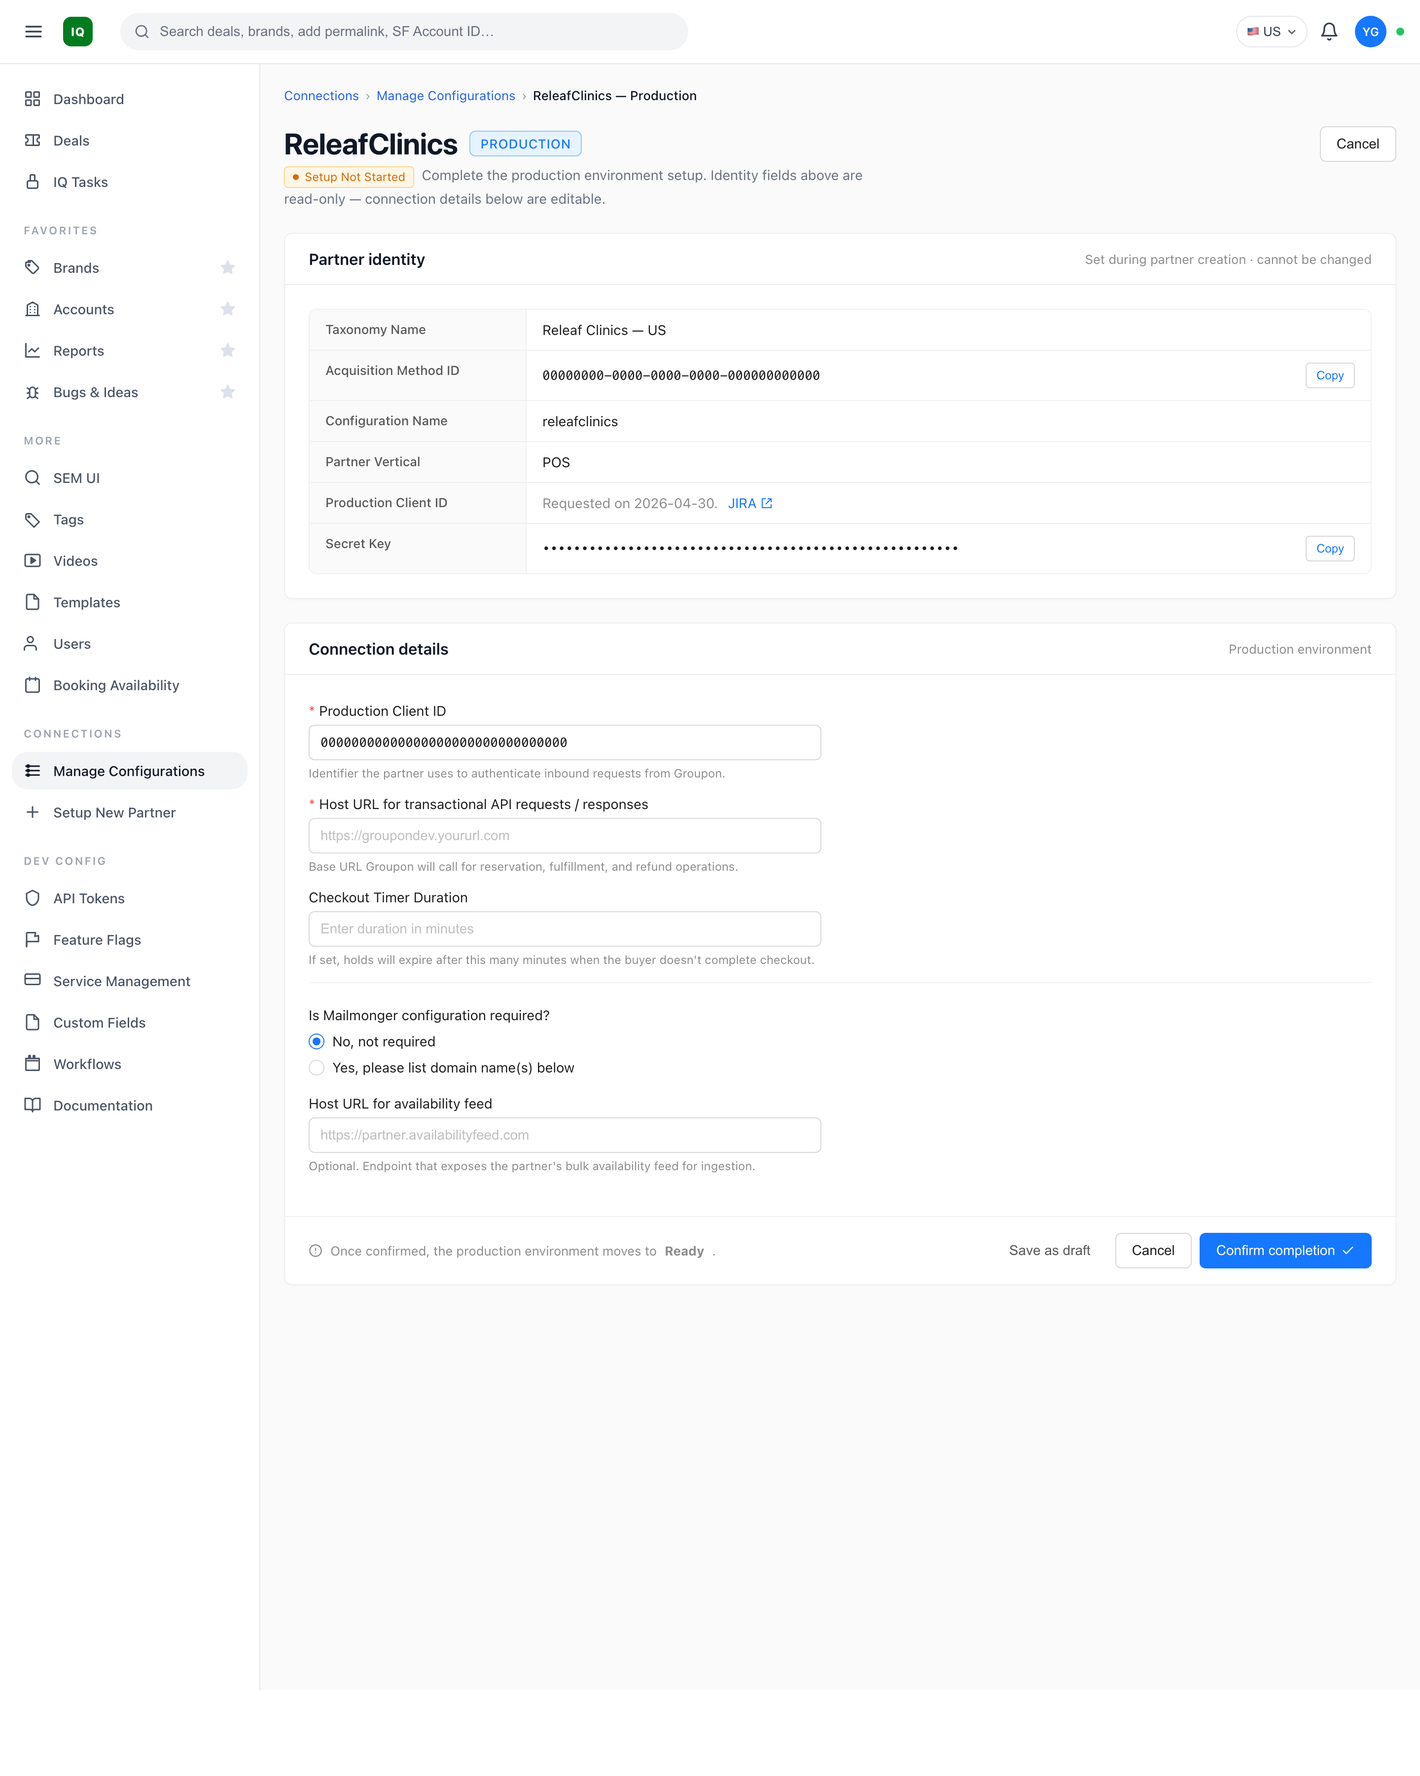
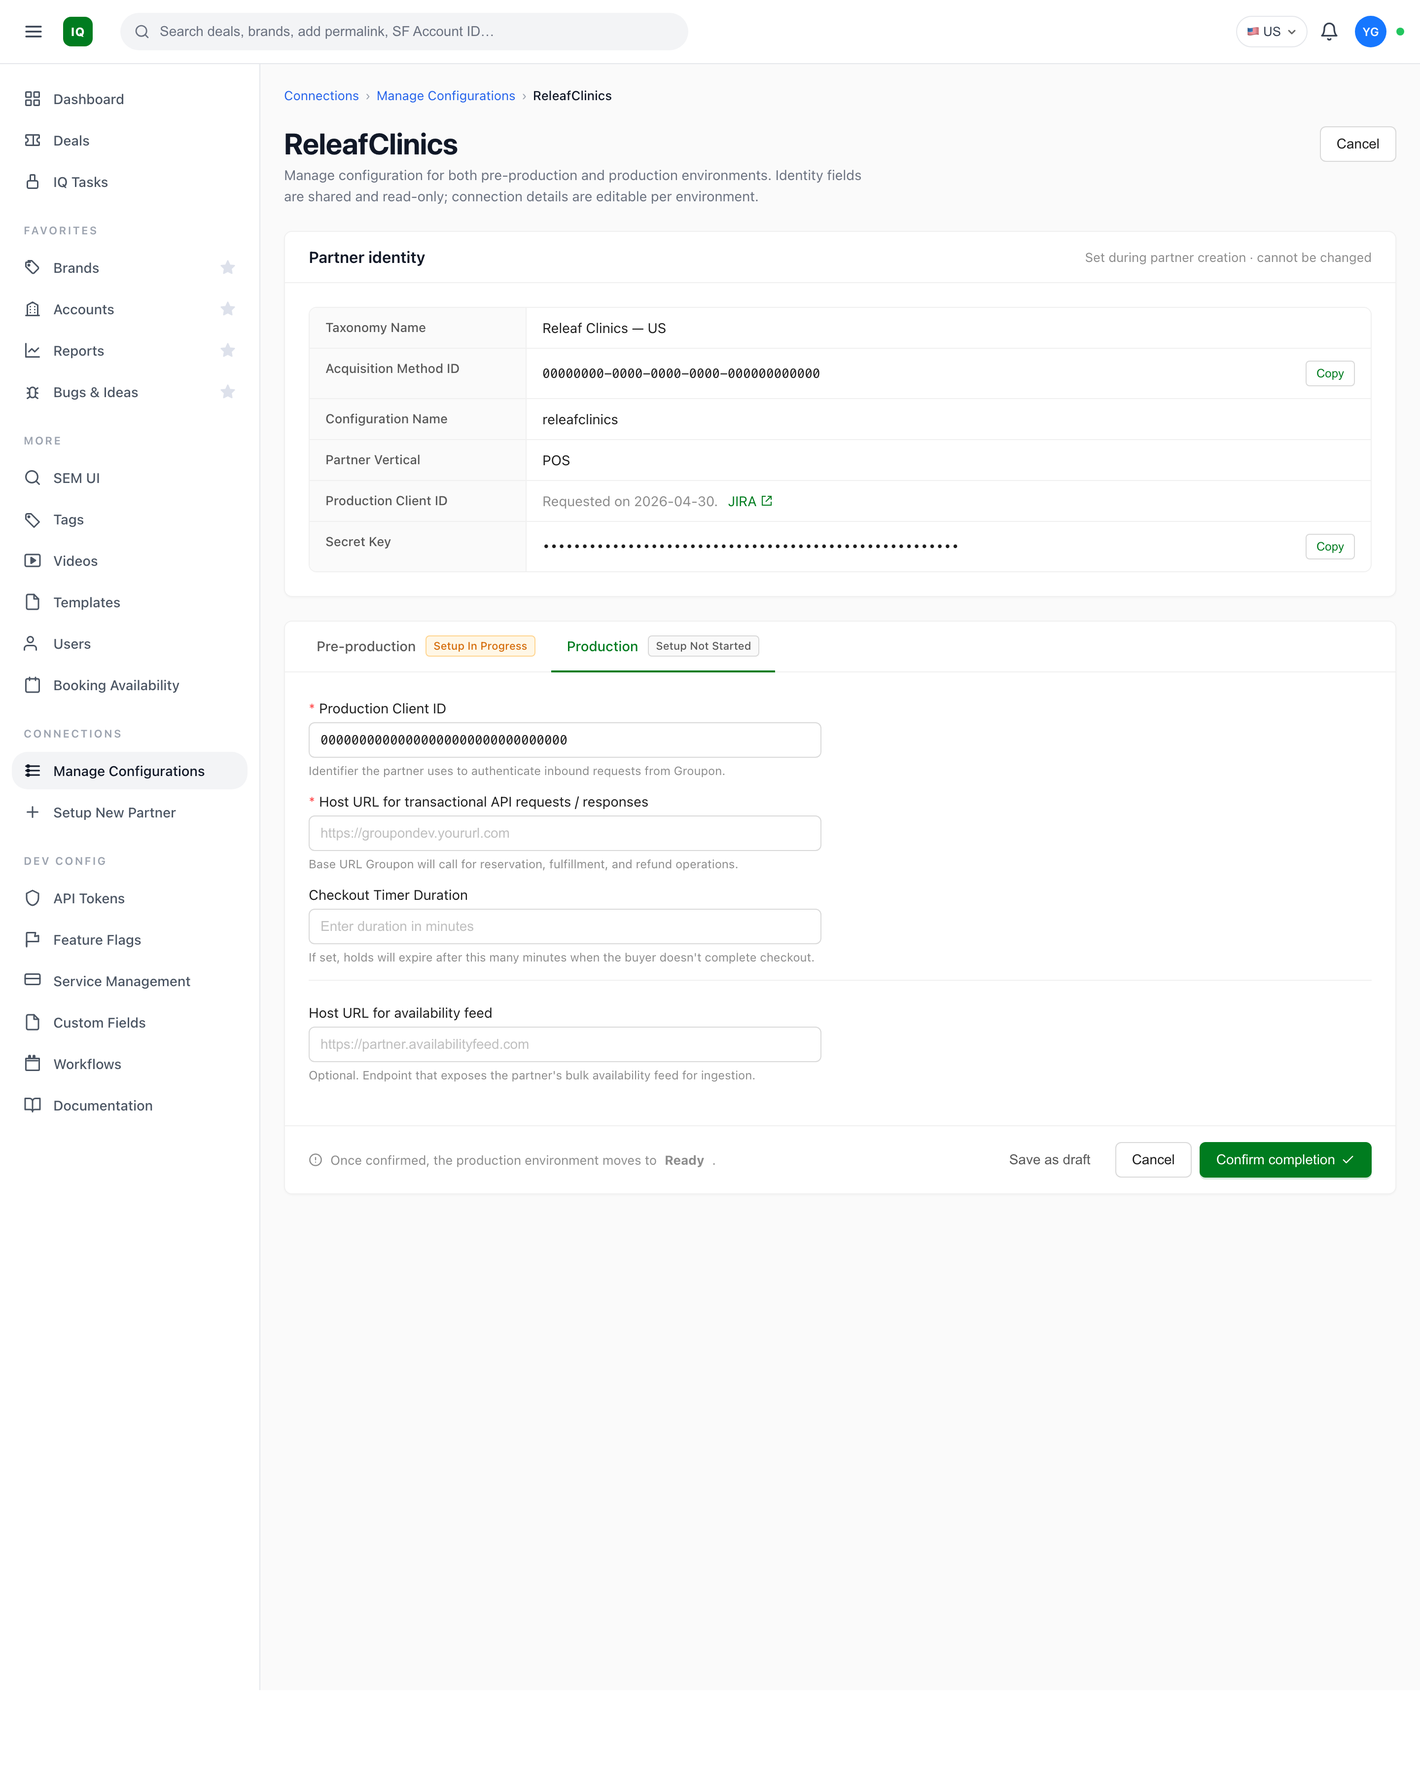
Tweaks: green primary buttons, single row per partner, env tabs, drop Mailmonger
- All primary buttons now use Groupon brand green (#007C1F) instead of AntD blue,
  with hover #0a9928. Form focus, pagination active, radio/checkbox checked, and
  steps active states all follow. Info alert kept blue (it's an info banner).
- List page now shows ONE row per partner with preproduction + production envs
  and their statuses stacked vertically; single Edit action per partner.
- Edit page has Pre-production / Production tabs at the top of the connection
  details card; identity card stays shared. Page H1 drops the env tag, breadcrumb
  drops the env suffix.
- Mailmonger config field removed from edit page.
- Re-rendered preview PNGs.

diff --git a/iq-partner-configs-mockup.html b/iq-partner-configs-mockup.html
@@ -172,12 +172,12 @@
     border: 1px solid #d9d9d9; font-size: 14px; font-weight: 400;
     cursor: pointer; transition: all .12s;
   }
-  .btn:hover { color: #4096ff; border-color: #4096ff; }
+  .btn:hover { color: var(--groupon-green); border-color: var(--groupon-green); }
   .btn-primary {
-    background: #1677ff; color: #fff; border-color: #1677ff;
-    box-shadow: 0 2px 0 rgba(5,145,255,0.1);
+    background: var(--groupon-green); color: #fff; border-color: var(--groupon-green);
+    box-shadow: 0 2px 0 rgba(0,124,31,0.15);
   }
-  .btn-primary:hover { background: #4096ff; color: #fff; border-color: #4096ff; }
+  .btn-primary:hover { background: #0a9928; color: #fff; border-color: #0a9928; }
   .btn svg {
     width: 14px; height: 14px; stroke: currentColor; fill: none;
     stroke-width: 2; stroke-linecap: round; stroke-linejoin: round;
@@ -192,7 +192,7 @@
     border: 1px solid #d9d9d9; background: #fff;
     color: rgba(0,0,0,0.88); font-size: 14px; outline: 0;
   }
-  .input:focus, .select:focus { border-color: #4096ff; }
+  .input:focus, .select:focus { border-color: var(--groupon-green); }
   .input { min-width: 280px; }
   .input::placeholder { color: rgba(0,0,0,0.25); }
   .select {
@@ -230,6 +230,10 @@
     font-family: ui-monospace, SFMono-Regular, Menlo, monospace;
     font-size: 12px; color: var(--gray-700);
     background: var(--gray-100); padding: 2px 8px; border-radius: 4px;
+    display: inline-block;
+  }
+  .env-stack, .status-stack {
+    display: flex; flex-direction: column; gap: 8px; align-items: flex-start;
   }
 
   /* ---------- AntD Tag styles ---------- */
@@ -264,8 +268,8 @@
     display: inline-flex; align-items: center; justify-content: center;
     cursor: pointer; font-size: 13px; color: rgba(0,0,0,0.88);
   }
-  .pg-btn:hover { color: #4096ff; border-color: #4096ff; }
-  .pg-btn.active { color: #1677ff; border-color: #1677ff; }
+  .pg-btn:hover { color: var(--groupon-green); border-color: var(--groupon-green); }
+  .pg-btn.active { color: var(--groupon-green); border-color: var(--groupon-green); }
 
   /* ---------- Annotation pin ---------- */
   .pin {
@@ -411,99 +415,129 @@
             </thead>
             <tbody>
               <tr>
-                <td rowspan="2">
+                <td>
                   <div class="partner-name">ReleafClinics</div>
                   <div class="partner-proto">voucher</div>
                 </td>
-                <td rowspan="2">US / USD</td>
-                <td><span class="env">preproduction</span></td>
-                <td><span class="tag tag-orange">Setup In Progress</span></td>
-                <td><div class="actions"><a class="link" href="iq-edit-partner-config-mockup.html">Edit</a><a class="link link-muted" href="#">View logs</a></div></td>
-              </tr>
-              <tr>
-                <td><span class="env">production</span></td>
-                <td><span class="tag">Setup Not Started</span></td>
-                <td><div class="actions"><a class="link" href="iq-edit-partner-config-mockup.html">Setup</a></div></td>
+                <td>US / USD</td>
+                <td>
+                  <div class="env-stack">
+                    <span class="env">preproduction</span>
+                    <span class="env">production</span>
+                  </div>
+                </td>
+                <td>
+                  <div class="status-stack">
+                    <span class="tag tag-orange">Setup In Progress</span>
+                    <span class="tag">Setup Not Started</span>
+                  </div>
+                </td>
+                <td><div class="actions"><a class="link" href="iq-edit-partner-config-mockup.html">Edit</a></div></td>
               </tr>
 
               <tr>
-                <td rowspan="2">
+                <td>
                   <div class="partner-name">Redeam_ES</div>
                   <div class="partner-proto">rails_groupon_iframe</div>
                 </td>
-                <td rowspan="2">ES / EUR</td>
-                <td><span class="env">preproduction</span></td>
-                <td><span class="tag tag-green">Certified</span></td>
-                <td><div class="actions"><a class="link" href="iq-edit-partner-config-mockup.html">Edit</a><a class="link link-muted" href="#">View logs</a></div></td>
-              </tr>
-              <tr>
-                <td><span class="env">production</span></td>
-                <td><span class="tag tag-blue">Ready</span></td>
+                <td>ES / EUR</td>
+                <td>
+                  <div class="env-stack">
+                    <span class="env">preproduction</span>
+                    <span class="env">production</span>
+                  </div>
+                </td>
+                <td>
+                  <div class="status-stack">
+                    <span class="tag tag-green">Certified</span>
+                    <span class="tag tag-blue">Ready</span>
+                  </div>
+                </td>
                 <td><div class="actions"><a class="link" href="iq-edit-partner-config-mockup.html">Edit</a><a class="link link-muted" href="#">View logs</a></div></td>
               </tr>
 
               <tr>
-                <td rowspan="2">
+                <td>
                   <div class="partner-name">octo_palisis_NL</div>
                   <div class="partner-proto">rails_groupon_iframe</div>
                 </td>
-                <td rowspan="2">NL / EUR</td>
-                <td><span class="env">preproduction</span></td>
-                <td><span class="tag tag-green">Certified</span></td>
-                <td><div class="actions"><a class="link" href="iq-edit-partner-config-mockup.html">Edit</a></div></td>
-              </tr>
-              <tr>
-                <td><span class="env">production</span></td>
-                <td><span class="tag tag-blue">Ready</span></td>
-                <td><div class="actions"><a class="link" href="iq-edit-partner-config-mockup.html">Edit</a></div></td>
+                <td>NL / EUR</td>
+                <td>
+                  <div class="env-stack">
+                    <span class="env">preproduction</span>
+                    <span class="env">production</span>
+                  </div>
+                </td>
+                <td>
+                  <div class="status-stack">
+                    <span class="tag tag-green">Certified</span>
+                    <span class="tag tag-blue">Ready</span>
+                  </div>
+                </td>
+                <td><div class="actions"><a class="link" href="iq-edit-partner-config-mockup.html">Edit</a><a class="link link-muted" href="#">View logs</a></div></td>
               </tr>
 
               <tr>
-                <td rowspan="2">
+                <td>
                   <div class="partner-name">Bokun</div>
                   <div class="partner-proto">rails_groupon_iframe</div>
                 </td>
-                <td rowspan="2">US / USD</td>
-                <td><span class="env">preproduction</span></td>
-                <td><span class="tag tag-orange">Setup In Progress</span></td>
+                <td>US / USD</td>
+                <td>
+                  <div class="env-stack">
+                    <span class="env">preproduction</span>
+                    <span class="env">production</span>
+                  </div>
+                </td>
+                <td>
+                  <div class="status-stack">
+                    <span class="tag tag-orange">Setup In Progress</span>
+                    <span class="tag">Setup Not Started</span>
+                  </div>
+                </td>
                 <td><div class="actions"><a class="link" href="iq-edit-partner-config-mockup.html">Edit</a></div></td>
-              </tr>
-              <tr>
-                <td><span class="env">production</span></td>
-                <td><span class="tag">Setup Not Started</span></td>
-                <td><div class="actions"><a class="link" href="iq-edit-partner-config-mockup.html">Setup</a></div></td>
               </tr>
 
               <tr>
-                <td rowspan="2">
+                <td>
                   <div class="partner-name">TripToGo</div>
                   <div class="partner-proto">rails_groupon_iframe</div>
                 </td>
-                <td rowspan="2">US / USD</td>
-                <td><span class="env">preproduction</span></td>
-                <td><span class="tag tag-green">Test Ready For Review</span></td>
+                <td>US / USD</td>
+                <td>
+                  <div class="env-stack">
+                    <span class="env">preproduction</span>
+                    <span class="env">production</span>
+                  </div>
+                </td>
+                <td>
+                  <div class="status-stack">
+                    <span class="tag tag-green">Test Ready For Review</span>
+                    <span class="tag">Setup Not Started</span>
+                  </div>
+                </td>
                 <td><div class="actions"><a class="link" href="iq-edit-partner-config-mockup.html">Review</a><a class="link" href="iq-edit-partner-config-mockup.html">Edit</a></div></td>
-              </tr>
-              <tr>
-                <td><span class="env">production</span></td>
-                <td><span class="tag">Setup Not Started</span></td>
-                <td><div class="actions"><a class="link" href="iq-edit-partner-config-mockup.html">Setup</a></div></td>
               </tr>
 
               <tr>
-                <td rowspan="2">
+                <td>
                   <div class="partner-name">mamenta</div>
                   <div class="partner-proto">rails_groupon_iframe</div>
                 </td>
-                <td rowspan="2">US / USD</td>
-                <td><span class="env">preproduction</span></td>
-                <td><span class="tag tag-green">Certified</span></td>
-                <td><div class="actions"><a class="link" href="iq-edit-partner-config-mockup.html">Edit</a></div></td>
-              </tr>
-              <tr>
-                <td><span class="env">production</span></td>
-                <td><span class="tag tag-blue">Ready</span></td>
-                <td><div class="actions"><a class="link" href="iq-edit-partner-config-mockup.html">Edit</a></div></td>
+                <td>US / USD</td>
+                <td>
+                  <div class="env-stack">
+                    <span class="env">preproduction</span>
+                    <span class="env">production</span>
+                  </div>
+                </td>
+                <td>
+                  <div class="status-stack">
+                    <span class="tag tag-green">Certified</span>
+                    <span class="tag tag-blue">Ready</span>
+                  </div>
+                </td>
+                <td><div class="actions"><a class="link" href="iq-edit-partner-config-mockup.html">Edit</a><a class="link link-muted" href="#">View logs</a></div></td>
               </tr>
             </tbody>
           </table>

diff --git a/iq-edit-partner-config-mockup.html b/iq-edit-partner-config-mockup.html
@@ -22,8 +22,9 @@
     --antd-text-3:  rgba(0,0,0,0.45);
     --antd-bd:      #d9d9d9;
     --antd-bd-soft: #f0f0f0;
-    --antd-blue:    #1677ff;
-    --antd-blue-hv: #4096ff;
+    --antd-blue:    #007C1F;
+    --antd-blue-hv: #0a9928;
+    --info-blue:    #1677ff;
 
     --tag-green-bg: #f6ffed; --tag-green-text: #389e0d; --tag-green-bd: #b7eb8f;
     --tag-blue-bg:  #e6f4ff; --tag-blue-text:  #1677ff; --tag-blue-bd:  #91caff;
@@ -138,7 +139,7 @@
     transition: all .12s;
   }
   .btn:hover { color: var(--antd-blue-hv); border-color: var(--antd-blue-hv); }
-  .btn-primary { background: var(--antd-blue); color: #fff; border-color: var(--antd-blue); box-shadow: 0 2px 0 rgba(5,145,255,0.1); }
+  .btn-primary { background: var(--antd-blue); color: #fff; border-color: var(--antd-blue); box-shadow: 0 2px 0 rgba(0,124,31,0.15); }
   .btn-primary:hover { background: var(--antd-blue-hv); color: #fff; border-color: var(--antd-blue-hv); }
   .btn-text { background: transparent; border-color: transparent; color: var(--antd-text-2); }
   .btn-text:hover { background: var(--gray-100); color: var(--gray-900); border-color: transparent; }
@@ -153,6 +154,32 @@
   .card-header h3 { margin: 0; font-size: 16px; font-weight: 600; color: var(--gray-900); }
   .card-header .meta { font-size: 13px; color: var(--antd-text-3); }
   .card-body { padding: 24px; }
+
+  /* ===== Tabs (AntD style) ===== */
+  .card-tabs {
+    display: flex; align-items: stretch;
+    border-bottom: 1px solid var(--antd-bd-soft);
+    padding: 0 16px;
+  }
+  .tab {
+    padding: 14px 16px; font-size: 14px; font-weight: 500;
+    color: var(--antd-text-2); cursor: pointer;
+    border-bottom: 2px solid transparent;
+    margin-bottom: -1px;
+    transition: color .12s, border-color .12s;
+    display: flex; align-items: center; gap: 10px;
+  }
+  .tab:hover { color: var(--antd-blue); }
+  .tab.active { color: var(--antd-blue); border-bottom-color: var(--antd-blue); }
+  .tab-status {
+    font-size: 11px; font-weight: 500; line-height: 1.6;
+    padding: 1px 7px; border-radius: 4px; border: 1px solid;
+    text-transform: none; letter-spacing: 0;
+  }
+  .tab-status.green { background: var(--tag-green-bg); color: var(--tag-green-text); border-color: var(--tag-green-bd); }
+  .tab-status.gray { background: #fafafa; color: #595959; border-color: #d9d9d9; }
+  .tab-status.orange { background: #fff7e6; color: #d46b08; border-color: #ffd591; }
+  .tab-status.blue { background: var(--tag-blue-bg); color: var(--tag-blue-text); border-color: var(--tag-blue-bd); }
   .card-footer {
     border-top: 1px solid var(--antd-bd-soft);
     padding: 16px 24px;
@@ -210,7 +237,7 @@
     color: var(--antd-text); font-size: 14px; outline: 0;
     transition: border-color .12s, box-shadow .12s; width: 100%;
   }
-  .input:focus { border-color: var(--antd-blue); box-shadow: 0 0 0 2px rgba(22,119,255,0.1); }
+  .input:focus { border-color: var(--antd-blue); box-shadow: 0 0 0 2px rgba(0,124,31,0.12); }
   .input::placeholder { color: rgba(0,0,0,0.25); }
   .input.mono { font-family: ui-monospace, SFMono-Regular, Menlo, monospace; font-size: 13px; }
 
@@ -332,7 +359,7 @@
           <span class="sep">›</span>
           <a href="iq-partner-configs-mockup.html">Manage Configurations</a>
           <span class="sep">›</span>
-          <span class="current">ReleafClinics — Production</span>
+          <span class="current">ReleafClinics</span>
         </nav>
 
         <!-- PageHeader -->
@@ -340,11 +367,9 @@
           <div>
             <h1>
               <span class="partner">ReleafClinics</span>
-              <span class="env-tag">production</span>
             </h1>
             <p class="desc">
-              <span class="status-pill">Setup Not Started</span>
-              &nbsp;Complete the production environment setup. Identity fields above are read-only — connection details below are editable.
+              Manage configuration for both pre-production and production environments. Identity fields are shared and read-only; connection details are editable per environment.
             </p>
           </div>
           <div class="actions">
@@ -397,11 +422,17 @@
           </div>
         </div>
 
-        <!-- Editable form card -->
+        <!-- Editable form card with env tabs -->
         <div class="card">
-          <div class="card-header">
-            <h3>Connection details</h3>
-            <span class="meta">Production environment</span>
+          <div class="card-tabs">
+            <div class="tab">
+              <span>Pre-production</span>
+              <span class="tab-status orange">Setup In Progress</span>
+            </div>
+            <div class="tab active">
+              <span>Production</span>
+              <span class="tab-status gray">Setup Not Started</span>
+            </div>
           </div>
           <div class="card-body">
 
@@ -425,14 +456,6 @@
               </div>
 
               <div class="divider"></div>
-
-              <div class="field full">
-                <label>Is Mailmonger configuration required?</label>
-                <div class="radio-group">
-                  <label class="radio checked"><span class="dot"></span> No, not required</label>
-                  <label class="radio"><span class="dot"></span> Yes, please list domain name(s) below</label>
-                </div>
-              </div>
 
               <div class="field">
                 <label>Host URL for availability feed</label>

diff --git a/iq-setup-new-partner-mockup.html b/iq-setup-new-partner-mockup.html
@@ -22,8 +22,9 @@
     --antd-text-3:  rgba(0,0,0,0.45);
     --antd-bd:      #d9d9d9;
     --antd-bd-soft: #f0f0f0;
-    --antd-blue:    #1677ff;
-    --antd-blue-hv: #4096ff;
+    --antd-blue:    #007C1F;
+    --antd-blue-hv: #0a9928;
+    --info-blue:    #1677ff;
   }
   *, *::before, *::after { box-sizing: border-box; }
   html, body {
@@ -171,7 +172,7 @@
   }
   .btn:hover { color: var(--antd-blue-hv); border-color: var(--antd-blue-hv); }
   .btn:disabled { color: rgba(0,0,0,0.25); background: rgba(0,0,0,0.04); border-color: var(--antd-bd); cursor: not-allowed; }
-  .btn-primary { background: var(--antd-blue); color: #fff; border-color: var(--antd-blue); box-shadow: 0 2px 0 rgba(5,145,255,0.1); }
+  .btn-primary { background: var(--antd-blue); color: #fff; border-color: var(--antd-blue); box-shadow: 0 2px 0 rgba(0,124,31,0.15); }
   .btn-primary:hover { background: var(--antd-blue-hv); color: #fff; border-color: var(--antd-blue-hv); }
   .btn-primary:disabled { background: rgba(0,0,0,0.04); color: rgba(0,0,0,0.25); border-color: var(--antd-bd); box-shadow: none; }
   .btn-text { background: transparent; border-color: transparent; color: var(--antd-text-2); }
@@ -183,7 +184,7 @@
     background: #e6f4ff; border: 1px solid #91caff;
     color: var(--antd-text); font-size: 13px;
   }
-  .alert .icn { color: var(--antd-blue); flex-shrink: 0; margin-top: 2px; }
+  .alert .icn { color: var(--info-blue); flex-shrink: 0; margin-top: 2px; }
   .alert .icn svg { width: 16px; height: 16px; stroke: currentColor; fill: none; stroke-width: 2; }
 
   /* ===== AntD Card ===== */
@@ -261,7 +262,7 @@
   }
   .input:focus, .select:focus {
     border-color: var(--antd-blue);
-    box-shadow: 0 0 0 2px rgba(22,119,255,0.1);
+    box-shadow: 0 0 0 2px rgba(0,124,31,0.12);
   }
   .input::placeholder { color: rgba(0,0,0,0.25); }
   .select {
